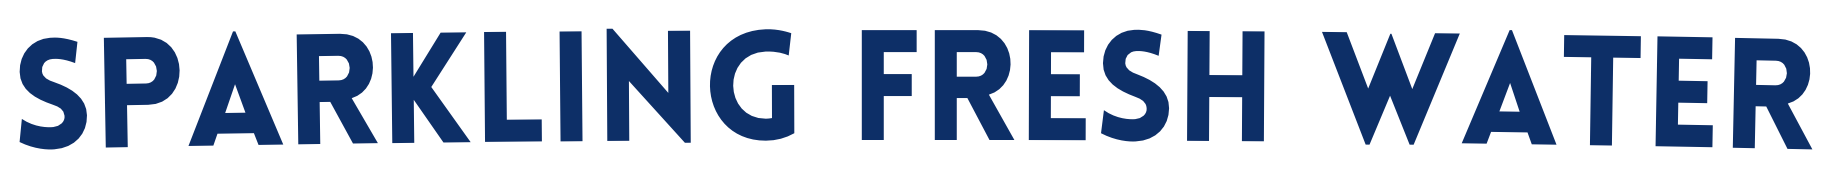
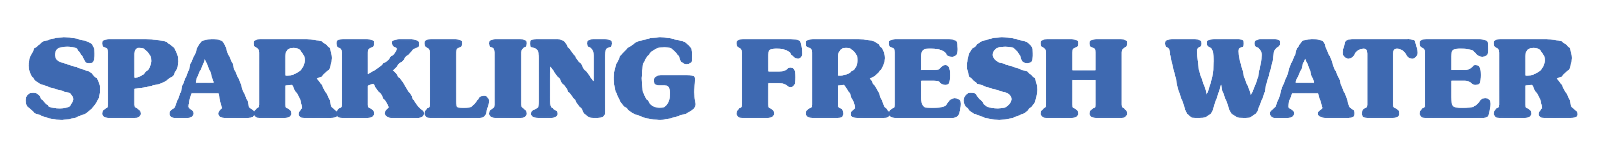
Remove current modal

diff --git a/frontend/src/style.css b/frontend/src/style.css
@@ -15,7 +15,7 @@
     margin: 0 auto;
     display: flex;
     flex-direction: column;
-    justify-content: space-around;
+    /* justify-content: space-around; */
     font-family: 'Secular One', sans-serif;
     height: 85vh;
 }
@@ -28,9 +28,14 @@ img {
 
 header {
     width: 100%;
-    /* border: 2px solid green; */
+    border: 1px dotted green;
     display: flex;
     justify-content: space-between;
+}
+
+h2 {
+    font-size: 5em;
+    color: #1A367D;
 }
 
 section {
@@ -56,11 +61,6 @@ section {
     font-size: 2.6em;
 }
 
-.sectionContainer {
-    /* font-size: 2.6em; */
-    /* margin: 30px auto; */
-}
-
 .sectionContainer2 {
     background-color: #C1F2E8;
     color: #046A6A;
@@ -74,12 +74,13 @@ section {
 .bannerContainer {
     width: 70%;
     height: 100%;
-    /* border: 3px solid crimson; */
+    border: 1px dotted crimson;
+    text-align: center;
 }
 
 .contactContainer {
     width: 20%;
-    /* border: 2px solid green; */
+    border: 1px dotted orange;
     display: flex;
     flex-direction: column;
     justify-content: space-evenly;
@@ -87,9 +88,15 @@ section {
     font-size: 20px;
 }
 
-.contactContainer p {
+.phoneContainer {
+    display: flex;
     font-size: 25px;
     color: #046A6A;
+    border: 1px dotted red;
+    width: 100%;
+    height: 50%;
+    justify-content: center;
+    align-items: center;
 }
 
 footer {
@@ -124,11 +131,20 @@ footer {
     padding-bottom: 20px;
 }
 
+.buttonContainer {
+    height: 50%;
+    width: 100%;
+    border: 1px dotted black;
+    display: flex;
+    align-items: center;
+    justify-content: center;
+}
+
 .contactButton {
     color: white;
     background-color: red;
     border: none;
     border-radius: 5%;
-    padding: 13px;
+    padding: 5px;
 }
 

diff --git a/frontend/src/App.js b/frontend/src/App.js
@@ -1,7 +1,7 @@
 import React from 'react';
 // import Frontpage from './components/Frontpage';
-import AddComment from './components/AddCommentModal/CommentIndex';
-import xBanner from './images/xBanner.png';
+// import AddComment from './components/AddCommentModal/CommentIndex';
+// import xBanner from './images/xBanner.png';
 import xBottle from './images/xBottle.png';
 // import xMap from './images/xMap.png';
 import MapComponent from './components/MapComponent';
@@ -12,11 +12,14 @@ const App = () => {
       <div className='wrapper'>
         <header>
           <div className='bannerContainer'>
-            <img src={xBanner} className='bannerImage' />
+            {/* <img src={xBanner} className='bannerImage' /> */}
+            <h2>SPARKLING FRESH WATER</h2>
           </div>
           <div className='contactContainer'>
-            <p>Phone: (416) 241-7866</p>
-            <AddComment />
+            <div className='phoneContainer'>
+              <p>Phone: (416) 241-7866</p>
+            </div>
+            {/* <AddComment /> */}
           </div>
         </header>
 

diff --git a/frontend/src/components/AddCommentModal/CommentIndex.js b/frontend/src/components/AddCommentModal/CommentIndex.js
@@ -36,7 +36,7 @@ const AddComment = () => {
     };
 
     return (
-        <div>
+        <div className='buttonContainer' >
             <AddCommentModal
                 modalOpen={modalOpen}
                 onSubmit={submitNewComment}
@@ -44,7 +44,9 @@ const AddComment = () => {
                 onClose={closeModal}
                 success={success}
             />
-            <Button onClick={() => openModal()} className='contactButton'>Contact Us!</Button>
+            <div>
+                <Button onClick={() => openModal()} className='contactButton'>Contact Us!</Button>
+            </div>
         </div>
     );
 };

diff --git a/frontend/src/index.js b/frontend/src/index.js
@@ -2,6 +2,7 @@ import React from 'react';
 import ReactDOM from 'react-dom';
 import App from './App';
 import 'normalize.css';
+// import 'semantic-ui-css/semantic.min.css';
 import './style.css';
 
 ReactDOM.render(

diff --git a/README.md b/README.md
@@ -29,3 +29,5 @@ Brainstorm:
     - use nodemailer for this
 - Host on Heroku and use apps to keep it awake/add CC/choose time to sleep if necessary
 - Think of good domain name
+
+Font: ITC Souvenir Bold
